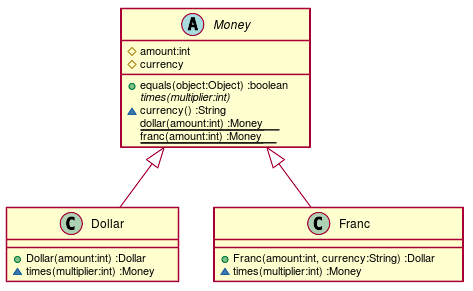
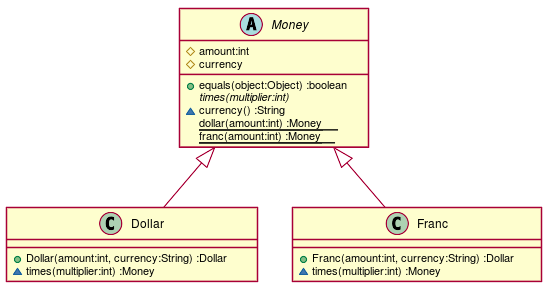
第９章 歩幅の調整 Step18

diff --git a/src/main/java/tdd/money/Dollar.java b/src/main/java/tdd/money/Dollar.java
@@ -1,11 +1,11 @@
 package tdd.money;
 
 class Dollar extends Money {
-    Dollar(int amount){
+    Dollar(int amount, String currency){
         this.amount = amount;
-        currency = "USD";
+        this.currency = currency;
     }
     Money times(int multiplier) {
-        return new Dollar(amount * multiplier);
+        return Money.dollar(amount * multiplier);
     }
 }

diff --git a/docs/TDD.md b/docs/TDD.md
@@ -59,7 +59,7 @@
 ### クラス図
   
 
-![](./assets/0285dfa24ee25b18e00bb369b57da6820.png?0.6994212418203227)  
+![](./assets/0285dfa24ee25b18e00bb369b57da6820.png?0.4690211398043609)  
 ### シーケンス図
   
   

diff --git a/docs/src/TDD.md b/docs/src/TDD.md
@@ -61,7 +61,7 @@ markdown:
 ### クラス図
 ```puml
 class Dollar {
-  +Dollar(amount:int) :Dollar
+  +Dollar(amount:int, currency:String) :Dollar
   ~times(multiplier:int) :Money
 }
 class Franc {
